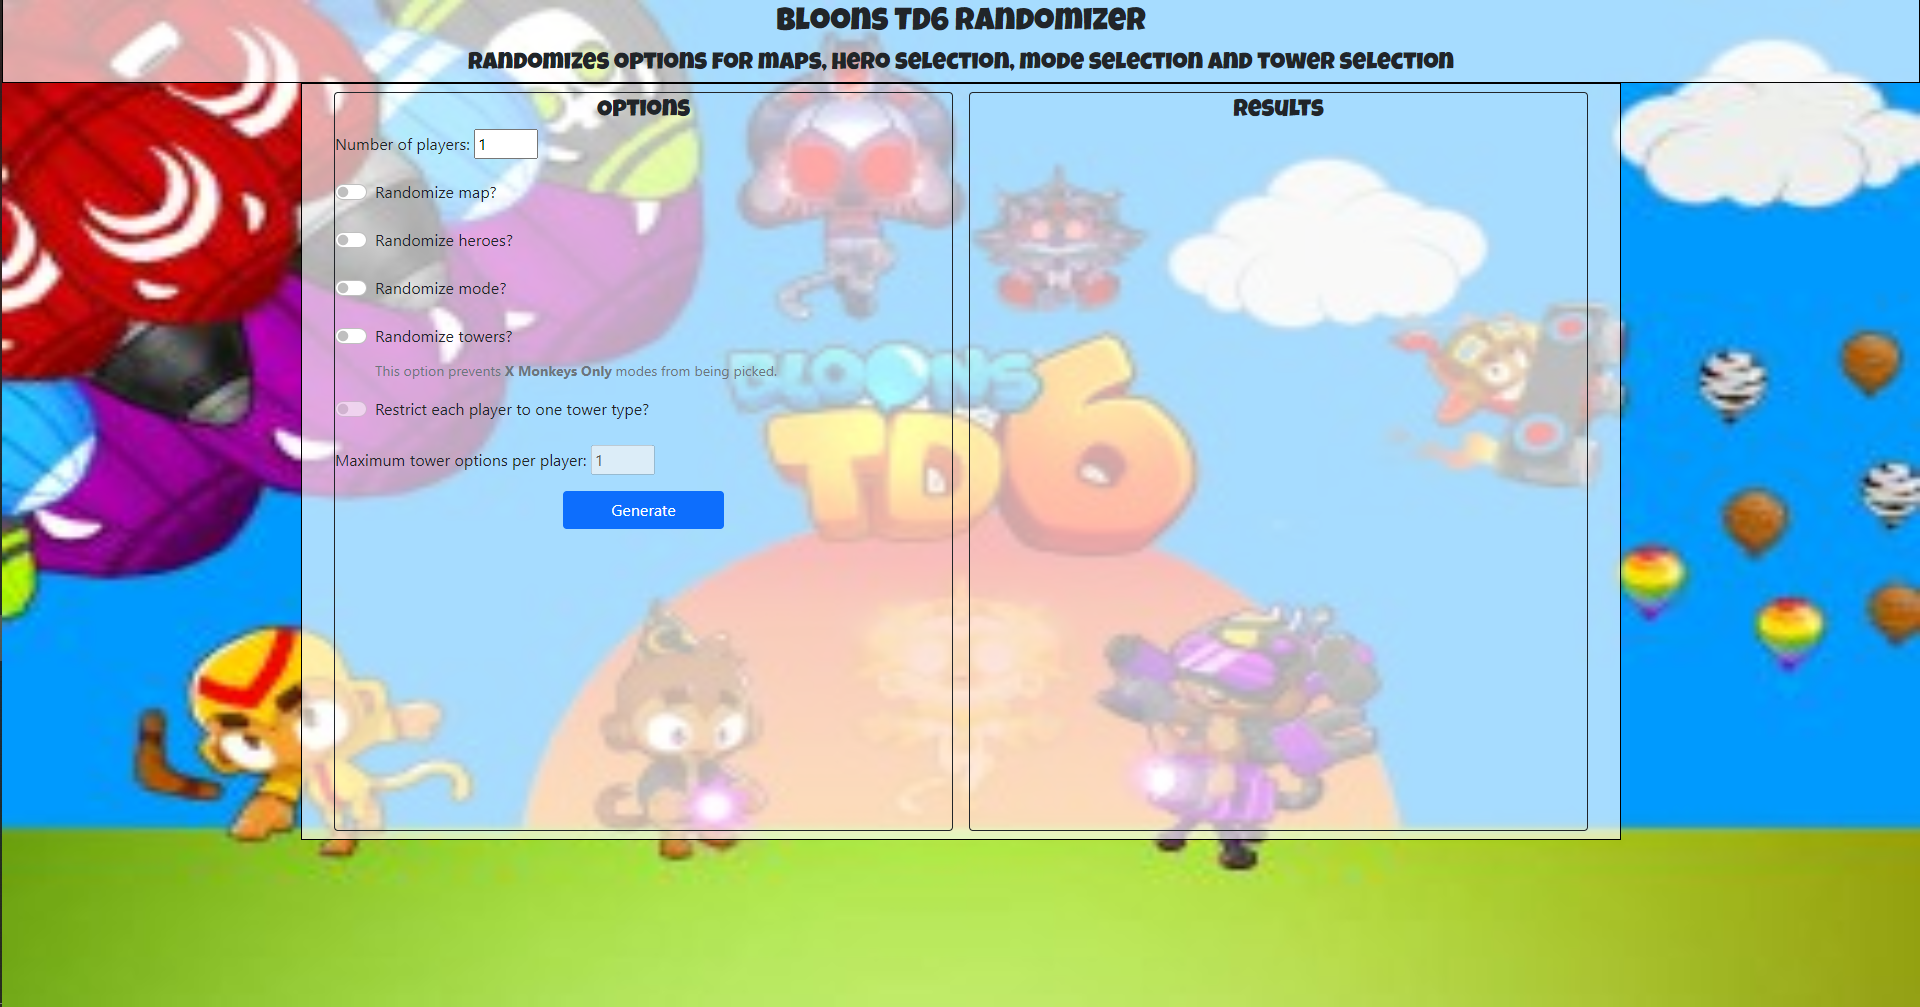
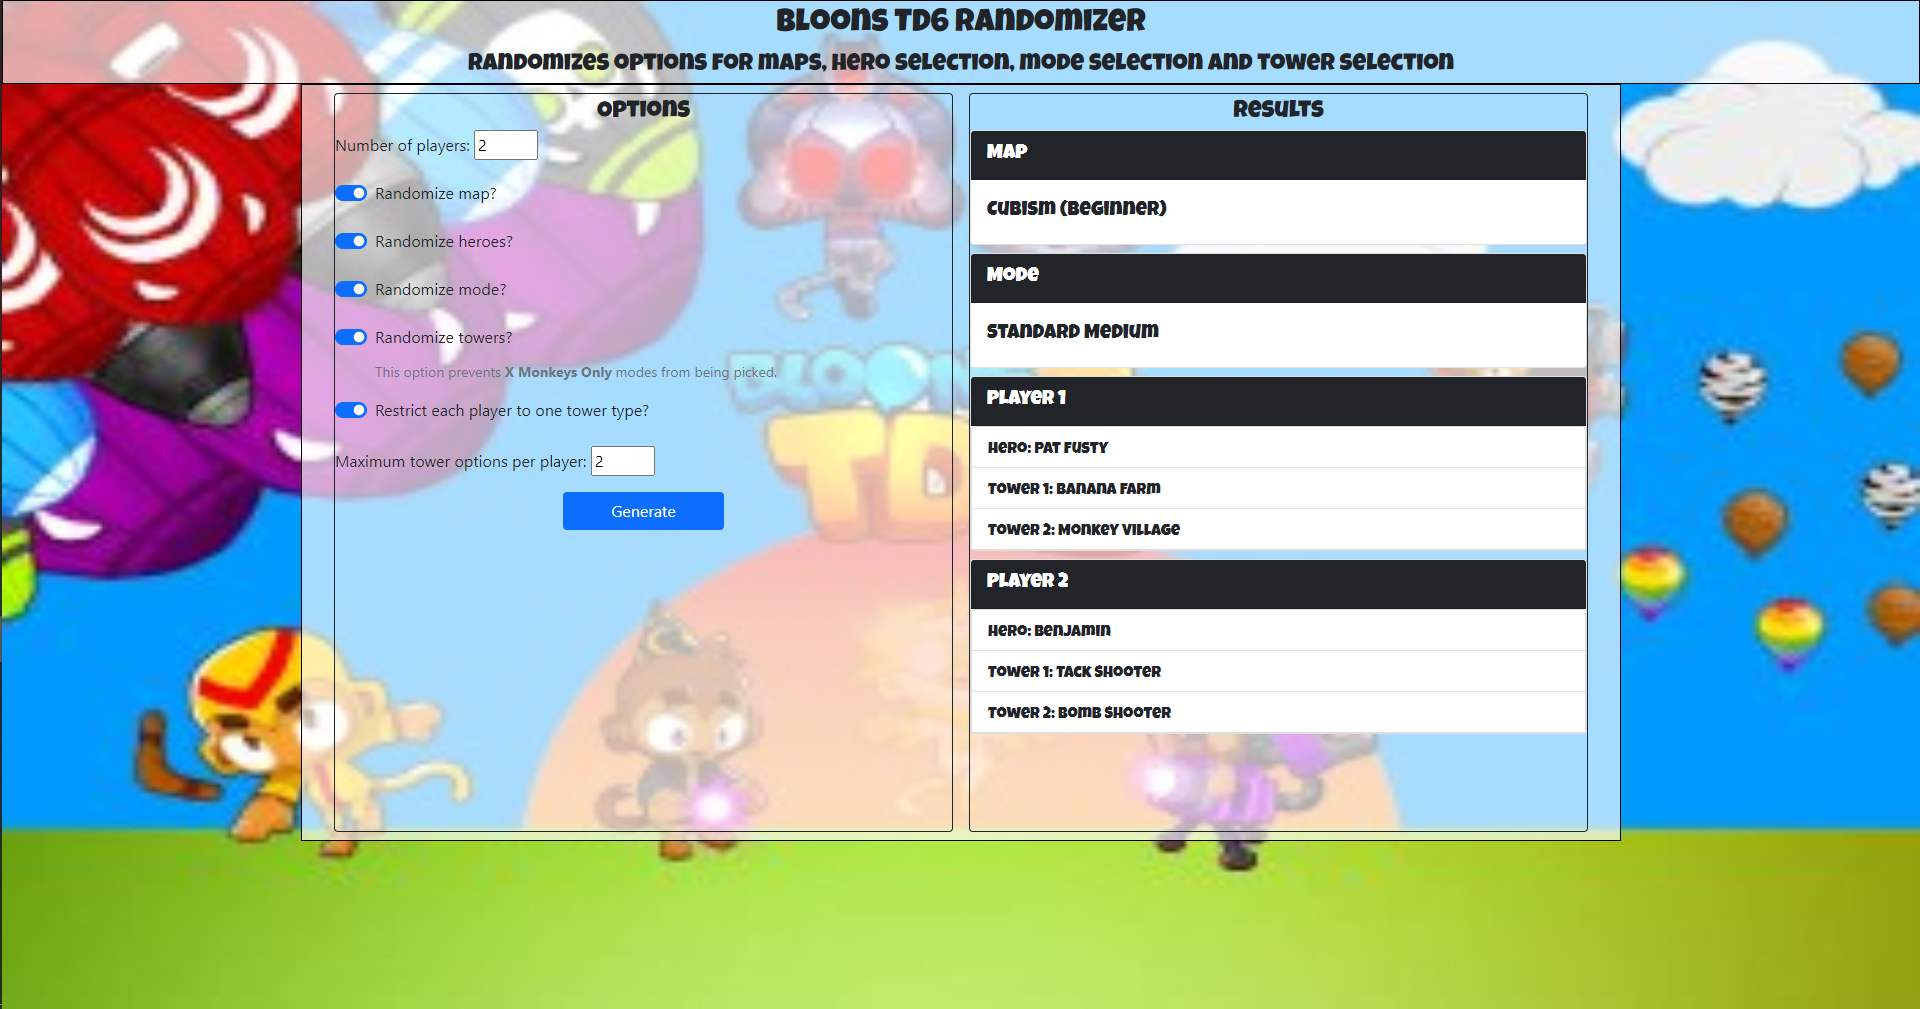
Updated app screenshot in readme.md.
Screenshot now shows the app having been used instead of when the app has not been used yet.

diff --git a/README.md b/README.md
@@ -6,7 +6,7 @@ If you haven't figured out where the randomizer is yet, [click here](https://maq
 
 ## How To Use
 
-![Image of the Bloons Tower Defense 6 Randomizer](./docs/app_screenshot.png?raw=true "App Screenshot")
+![Image of the Bloons Tower Defense 6 Randomizer with generated results for 2 players, a random map, game mode and heroes and 2 towers for each player](./docs/app_screenshot.png?raw=true "App Screenshot")
 
 The ranzomizer supports both single-player and co-op randomization.
 
